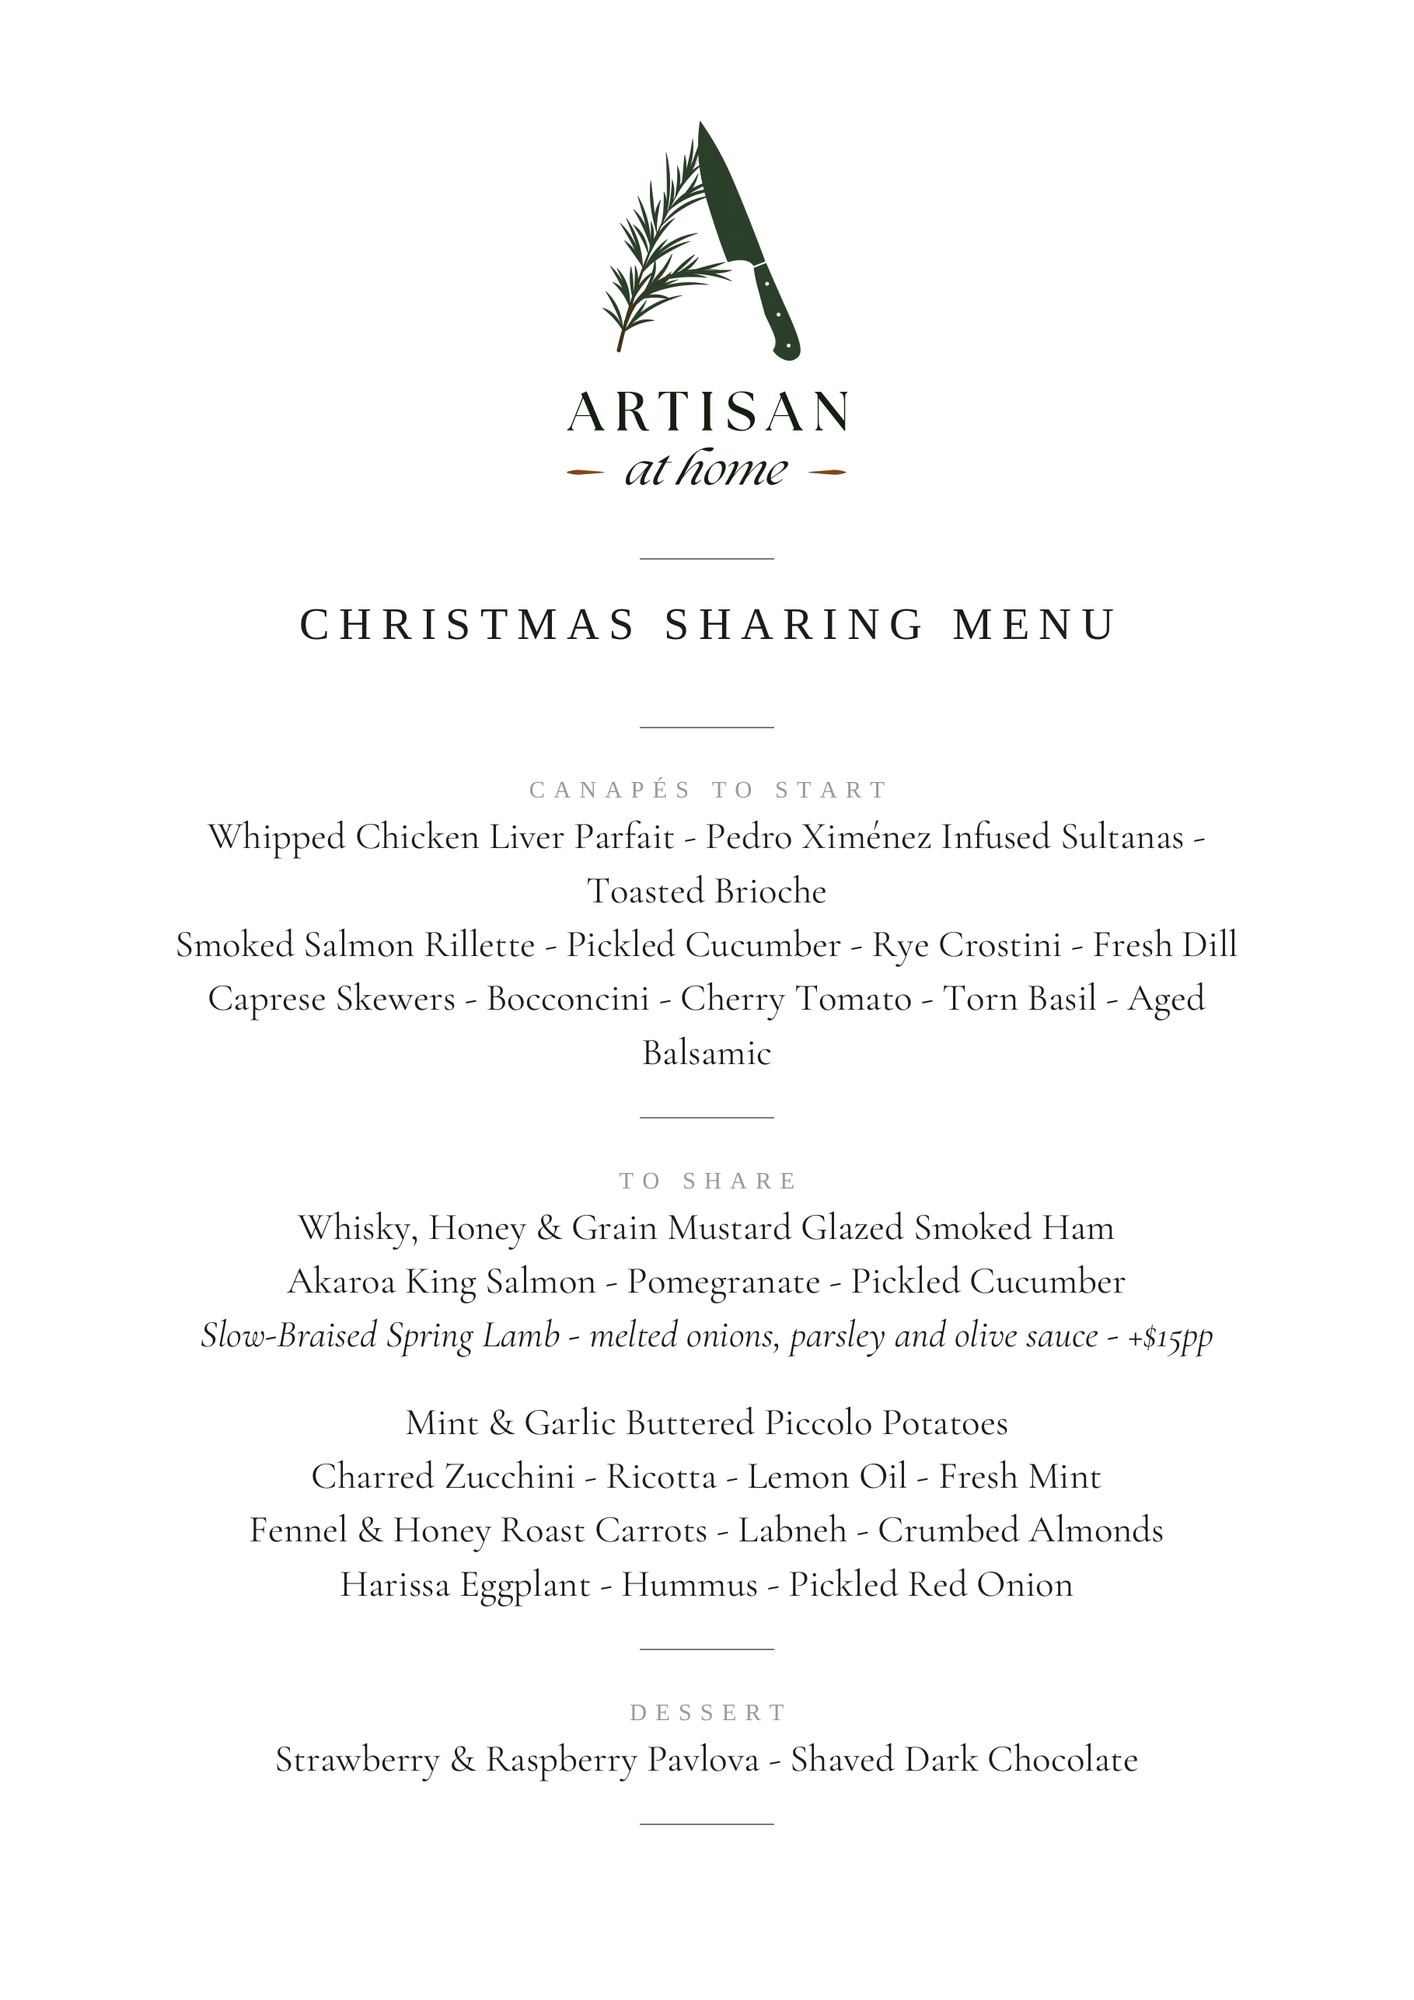
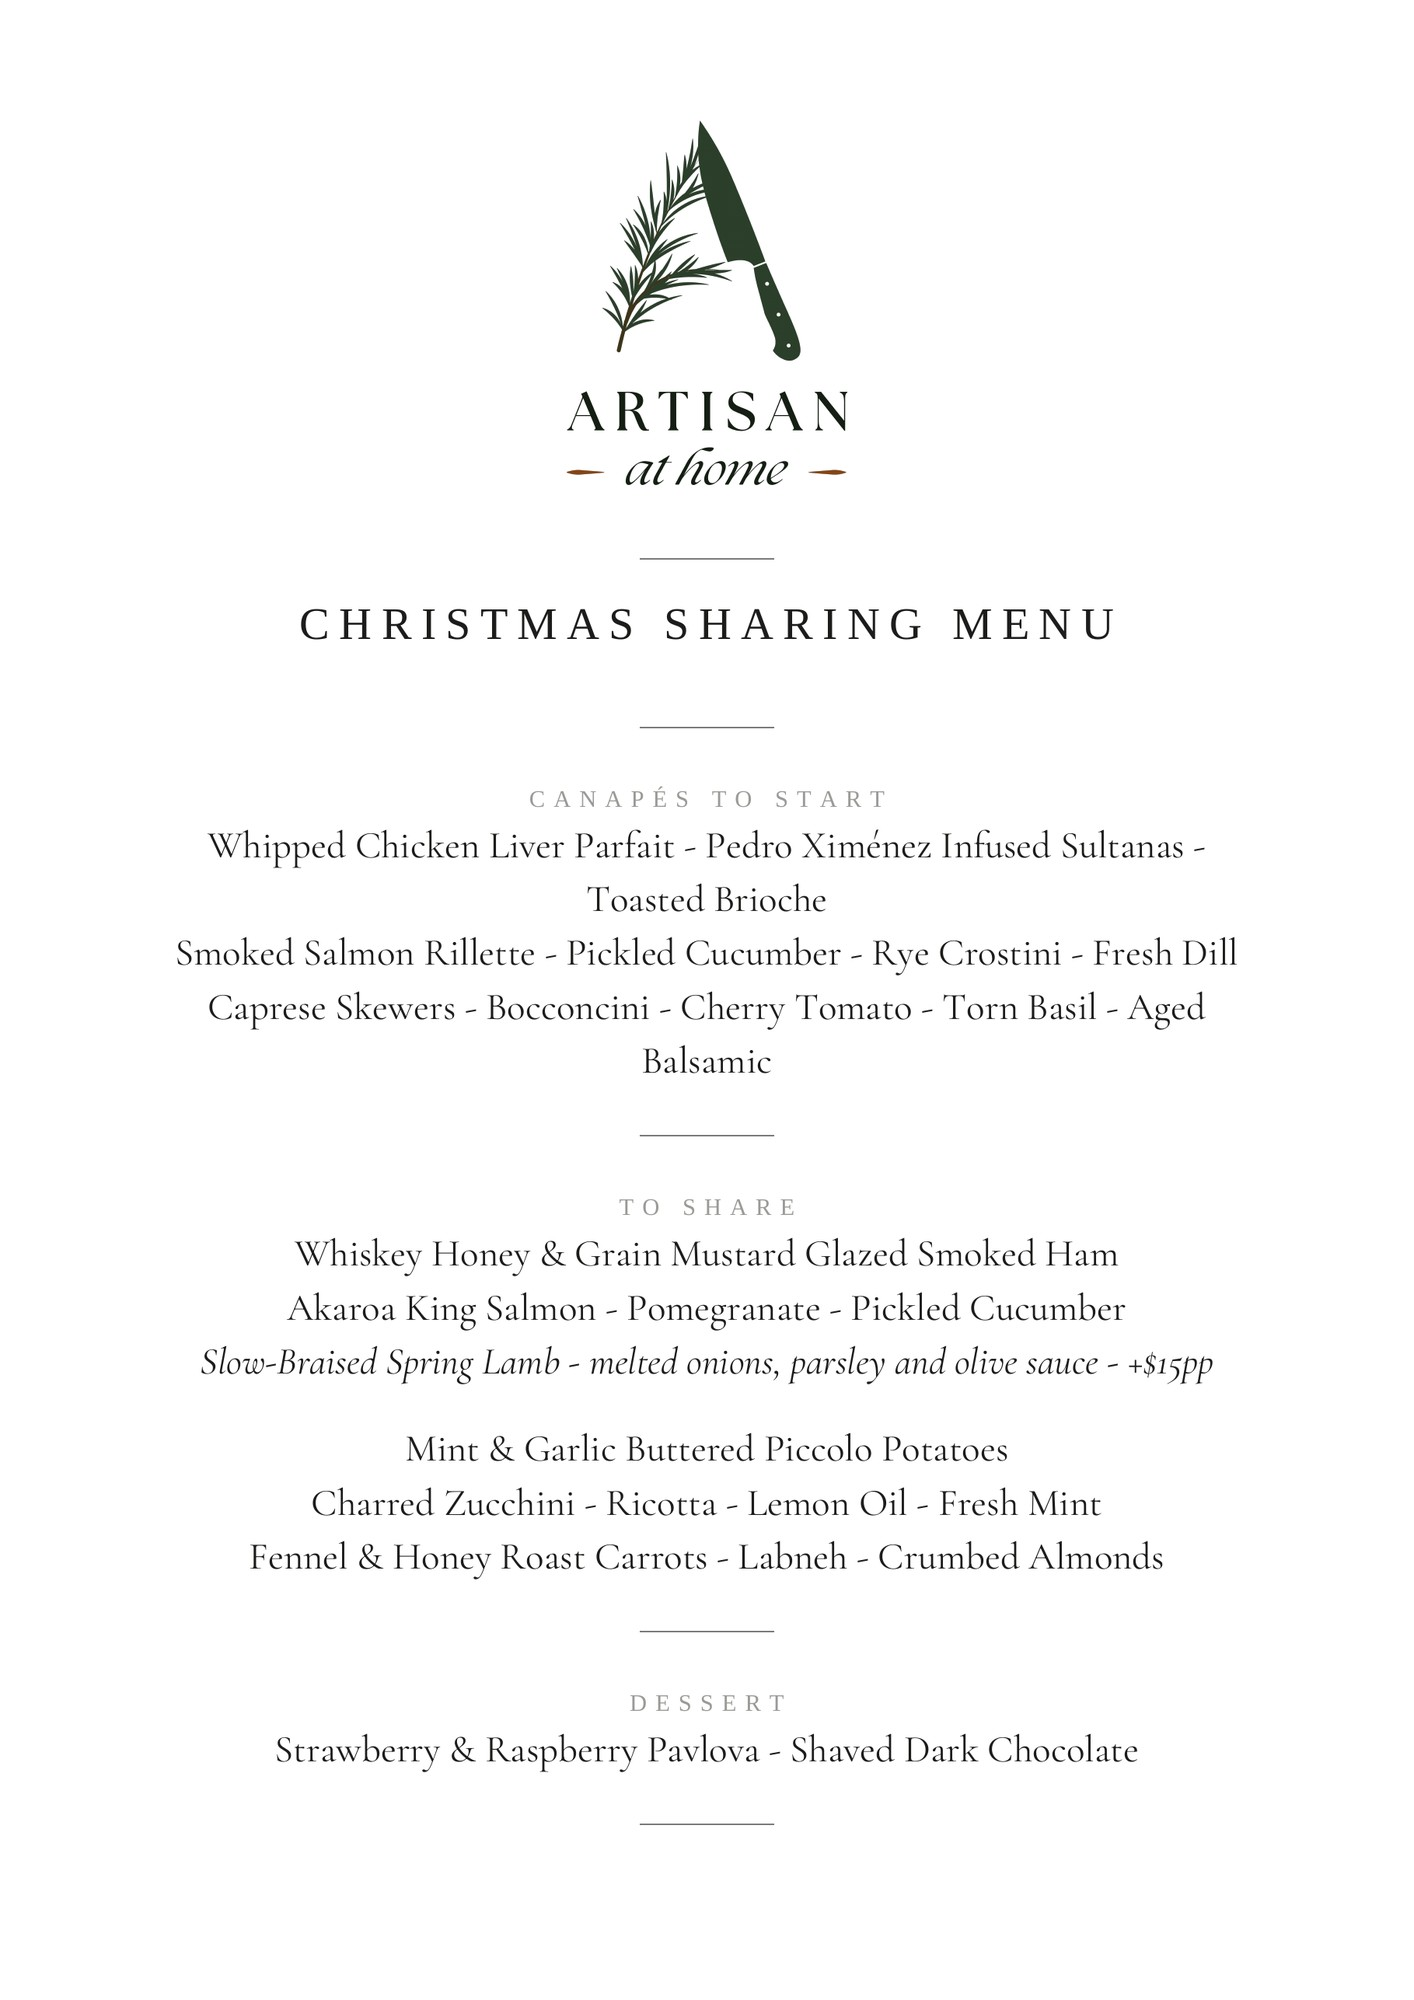
Update website 2026-11-25 19:08

diff --git a/christmas-catering/index.html b/christmas-catering/index.html
@@ -16,7 +16,7 @@
 <link rel="icon" type="image/png" href="/images/favicon.png">
 <link rel="preconnect" href="https://fonts.googleapis.com">
 <link rel="preconnect" href="https://fonts.gstatic.com" crossorigin>
-<link href="https://fonts.googleapis.com/css2?family=Lato:wght@300;400;700&family=Cormorant+Garamond:wght@500;600;700&family=Playfair+Display:wght@500;600;700&display=swap" rel="stylesheet">
+<link href="https://fonts.googleapis.com/css2?family=Lato:wght@300;400;700&family=Cormorant+Garamond:wght@500;600;700&family=Playfair+Display:wght@500;600;700&family=Caveat:wght@500;600&display=swap" rel="stylesheet">
 <link rel="stylesheet" href="/css/styles.css">
 <script type="application/ld+json">
 {"@context":"https://schema.org","@type":"Service","name":"Christmas Catering","serviceType":"Christmas and festive catering, private chef","url":"https://artisanathome.nz/christmas-catering/","areaServed":["Auckland","Northland"],"provider":{"@type":"LocalBusiness","@id":"https://artisanathome.nz/#business","name":"Artisan at Home","telephone":"+64275723373","email":"hello@artisanathome.nz"}}
@@ -34,7 +34,8 @@
 .pc-intro-photo img { position: absolute; inset: 0; width: 100%; height: 100%; object-fit: cover; display: block; }
 @media (max-width: 820px) { .pc-intro-grid { grid-template-columns: 1fr; } .pc-intro-photo { order: -1; min-height: 280px; aspect-ratio: 4 / 3; } }
 .xmas-menu-col { text-align: center; }
-.xmas-menu-col .xmas-menu-img { width: auto; max-width: 100%; max-height: 680px; margin: 0 auto; }
+.xmas-menu-col .xmas-menu-img { width: auto; max-width: 100%; max-height: 680px; margin: 0 auto; border: 1px solid rgba(47,74,47,0.12); }
+.xmas-script { display: block; font-family: 'Caveat', cursive; font-weight: 600; font-size: clamp(1.5rem, 3vw, 2rem); color: #a81f33; line-height: 1; letter-spacing: 0.01em; margin-bottom: 0.2rem; }
 .wed-text-note { text-align: center; margin: 1.6rem auto 0; max-width: 44rem; color: rgba(34,40,31,0.72); }
 .wed-text-note a { color: var(--honey); font-weight: 700; }
 /* cream background + festive pine garland down both sides */
@@ -91,7 +92,8 @@ main#content { position: relative; z-index: 1; padding-left: var(--cpad); paddin
 <section class="pc-intro" id="festive-menu">
   <div class="wrap pc-intro-grid">
     <div class="pc-intro-copy">
-      <h1 class="pc-tagline" style="font-size: clamp(2rem, 4.4vw, 3rem);">Christmas Catering in Auckland</h1>
+      <span class="xmas-script">&rsaquo; 'Tis the season to gather &lsaquo;</span>
+      <h1 class="pc-tagline" style="font-size: clamp(2rem, 4.4vw, 3rem); margin-top: 0.3rem;">Christmas Catering in Auckland</h1>
       <p class="lead">From intimate Christmas dinners to festive long lunches and end-of-year parties, we have our seasonal Christmas menu with the firm favourites and some with a special Artisan at Home twist. We do all the preparation, cooking and clean-up so you can pour the wine, gather your people, and soak up the evening while we take care of the rest!</p>
       <p class="lead">We have a few dates throughout December still available, so your Christmas gatherings can be less stress and more festive fun! We also have a festive menu available as a delivered catering option — just mention this upon enquiry.</p>
       <div class="btn-row">
@@ -99,8 +101,8 @@ main#content { position: relative; z-index: 1; padding-left: var(--cpad); paddin
       </div>
     </div>
     <div class="xmas-menu-col">
-      <img class="xmas-menu-img" src="/images/menus/christmas-sharing-menu.jpg" alt="Artisan at Home Christmas Sharing Menu — canapés to start; a shared table of whisky-glazed ham, Akaroa king salmon, seasonal sides and salads; strawberry and raspberry pavlova to finish" loading="lazy">
-      <p class="xmas-menu-note"><a href="/images/menus/christmas-sharing-menu.pdf" target="_blank" rel="noopener">Download the menu (PDF)</a> &middot; Our menu is seasonal, so the odd dish may change for the best produce. Dietary needs happily catered for &mdash; just let us know.</p>
+      <img class="xmas-menu-img" src="/images/menus/christmas-sharing-menu.jpg" alt="Artisan at Home Christmas Sharing Menu — canapés to start; a shared table of whiskey-glazed ham, Akaroa king salmon, seasonal sides and salads; strawberry and raspberry pavlova to finish" loading="lazy">
+      <p class="xmas-menu-note">Our menu is seasonal, so the odd dish may change for the best produce. Dietary needs happily catered for &mdash; just let us know.</p>
     </div>
   </div>
 </section>

diff --git a/css/styles.css b/css/styles.css
@@ -656,10 +656,11 @@ h1 em, h2 em, h3 em { font-style: normal; font-weight: 600; color: var(--pine); 
 .aah-notice-sign { font-family: 'Caveat', cursive; font-weight: 600; font-size: 1.7rem; color: var(--pine); margin: 0; }
 
 /* ---- Seasonal Christmas announcement bar (homepage) ---- */
-.xmas-bar { display: block; position: relative; z-index: 40; background: #c81919; color: #fff; font-family: var(--sans); font-weight: 400; text-align: center; text-decoration: none; letter-spacing: 0.02em; line-height: 1.55; font-size: clamp(0.9rem, 2.2vw, 1.05rem); padding: 0.9rem clamp(1.1rem, 4vw, 3rem); transition: background 0.2s ease; }
-.xmas-bar:hover { background: #a81414; }
+.xmas-bar { display: block; position: relative; z-index: 40; background: #a81f33; color: #fff; font-family: var(--sans); font-weight: 400; text-align: center; text-decoration: none; letter-spacing: 0.02em; line-height: 1.55; font-size: clamp(0.9rem, 2.2vw, 1.05rem); padding: 0.9rem clamp(1.1rem, 4vw, 3rem); transition: background 0.2s ease; }
+.xmas-bar:hover { background: #8c1829; }
 .xmas-bar .xmas-link { color: #fff; text-decoration: underline; text-underline-offset: 3px; white-space: nowrap; }
-@media (max-width: 820px) { .xmas-bar { padding: 0.9rem 3.4rem 0.9rem 1.2rem; font-size: 0.92rem; } .xmas-bar .xmas-link { white-space: normal; } }
+.xmas-bar .xb-mini { display: none; }
+@media (max-width: 820px) { .xmas-bar { padding: 0.9rem 3.4rem 0.9rem 1.2rem; font-size: 0.92rem; } .xmas-bar .xmas-link { white-space: normal; } .xmas-bar .xb-full { display: none; } .xmas-bar .xb-mini { display: inline; } }
 
 /* ---- Christmas page: branded menu image ---- */
 .xmas-menu-wrap { max-width: 660px; margin: 0 auto; text-align: center; }

diff --git a/menus/index.html b/menus/index.html
@@ -96,7 +96,7 @@ body { background: #fff; }
     </ul>
   </nav>
 </div>
-<a class="xmas-bar" href="/christmas-catering/#festive-menu">A few weekend dates remaining for Christmas bookings &mdash; if you're planning a festive dinner, long lunch or party, <span class="xmas-link">take a look at our Christmas menu &rsaquo;</span></a>
+<a class="xmas-bar" href="/christmas-catering/#festive-menu"><span class="xb-full">🎅 A few weekend dates remaining for Christmas bookings &mdash; if you're planning a festive dinner, long lunch or party, <span class="xmas-link">take a look at our Christmas menu &rsaquo;</span> 🎅</span><span class="xb-mini">🎅 Christmas Menu &mdash; a few dates still available 🎅</span></a>
 <main id="content">
 
 <section class="page-hero page-hero--slim" style="background-image: url('/images/menu-page/menus.png'); background-position: center;">

diff --git a/services/event-catering/index.html b/services/event-catering/index.html
@@ -96,7 +96,7 @@
     </ul>
   </nav>
 </div>
-<a class="xmas-bar" href="/christmas-catering/#festive-menu">A few weekend dates remaining for Christmas bookings &mdash; if you're planning a festive dinner, long lunch or party, <span class="xmas-link">take a look at our Christmas menu &rsaquo;</span></a>
+<a class="xmas-bar" href="/christmas-catering/#festive-menu"><span class="xb-full">🎅 A few weekend dates remaining for Christmas bookings &mdash; if you're planning a festive dinner, long lunch or party, <span class="xmas-link">take a look at our Christmas menu &rsaquo;</span> 🎅</span><span class="xb-mini">🎅 Christmas Menu &mdash; a few dates still available 🎅</span></a>
 <main id="content">
 
 <section class="page-hero page-hero--slim" style="background-image: url('/images/event-catering/bowl-food.jpeg'); background-position: center bottom;">

diff --git a/services/private-chef/index.html b/services/private-chef/index.html
@@ -171,7 +171,7 @@ body { background: #fff; }
     </ul>
   </nav>
 </div>
-<a class="xmas-bar" href="/christmas-catering/#festive-menu">A few weekend dates remaining for Christmas bookings &mdash; if you're planning a festive dinner, long lunch or party, <span class="xmas-link">take a look at our Christmas menu &rsaquo;</span></a>
+<a class="xmas-bar" href="/christmas-catering/#festive-menu"><span class="xb-full">🎅 A few weekend dates remaining for Christmas bookings &mdash; if you're planning a festive dinner, long lunch or party, <span class="xmas-link">take a look at our Christmas menu &rsaquo;</span> 🎅</span><span class="xb-mini">🎅 Christmas Menu &mdash; a few dates still available 🎅</span></a>
 <main id="content">
 
 <section class="page-hero page-hero--slim" style="background-image: url('/images/private-chef/Fine-dining-dish-2.png');">

diff --git a/services/corporate-catering/index.html b/services/corporate-catering/index.html
@@ -193,7 +193,7 @@
     </ul>
   </nav>
 </div>
-<a class="xmas-bar" href="/christmas-catering/#festive-menu">A few weekend dates remaining for Christmas bookings &mdash; if you're planning a festive dinner, long lunch or party, <span class="xmas-link">take a look at our Christmas menu &rsaquo;</span></a>
+<a class="xmas-bar" href="/christmas-catering/#festive-menu"><span class="xb-full">🎅 A few weekend dates remaining for Christmas bookings &mdash; if you're planning a festive dinner, long lunch or party, <span class="xmas-link">take a look at our Christmas menu &rsaquo;</span> 🎅</span><span class="xb-mini">🎅 Christmas Menu &mdash; a few dates still available 🎅</span></a>
 <main id="content">
 
 <section class="page-hero page-hero--slim" style="background-image: url('/images/converted/Catering%20spread.jpg'); background-position: center;">

diff --git a/services/wedding-catering/index.html b/services/wedding-catering/index.html
@@ -94,7 +94,7 @@
     </ul>
   </nav>
 </div>
-<a class="xmas-bar" href="/christmas-catering/#festive-menu">A few weekend dates remaining for Christmas bookings &mdash; if you're planning a festive dinner, long lunch or party, <span class="xmas-link">take a look at our Christmas menu &rsaquo;</span></a>
+<a class="xmas-bar" href="/christmas-catering/#festive-menu"><span class="xb-full">🎅 A few weekend dates remaining for Christmas bookings &mdash; if you're planning a festive dinner, long lunch or party, <span class="xmas-link">take a look at our Christmas menu &rsaquo;</span> 🎅</span><span class="xb-mini">🎅 Christmas Menu &mdash; a few dates still available 🎅</span></a>
 <main id="content">
 
 <section class="page-hero page-hero--slim" style="background-image: url('/images/wedding-images/first-look.jpg'); background-position: center 92%;">

diff --git a/index.html b/index.html
@@ -95,7 +95,7 @@ try {
 </div>
 <main id="content">
 
-<a class="xmas-bar" href="/christmas-catering/#festive-menu">A few weekend dates remaining for Christmas bookings &mdash; if you're planning a festive dinner, long lunch or party, <span class="xmas-link">take a look at our Christmas menu &rsaquo;</span></a>
+<a class="xmas-bar" href="/christmas-catering/#festive-menu"><span class="xb-full">🎅 A few weekend dates remaining for Christmas bookings &mdash; if you're planning a festive dinner, long lunch or party, <span class="xmas-link">take a look at our Christmas menu &rsaquo;</span> 🎅</span><span class="xb-mini">🎅 Christmas Menu &mdash; a few dates still available 🎅</span></a>
 
 <section class="hero-reveal" id="hero-reveal">
   <h1 class="visually-hidden">Artisan at Home — private chef &amp; catering, Auckland &amp; Northland</h1>

diff --git a/our-story/index.html b/our-story/index.html
@@ -57,7 +57,7 @@
     </ul>
   </nav>
 </div>
-<a class="xmas-bar" href="/christmas-catering/#festive-menu">A few weekend dates remaining for Christmas bookings &mdash; if you're planning a festive dinner, long lunch or party, <span class="xmas-link">take a look at our Christmas menu &rsaquo;</span></a>
+<a class="xmas-bar" href="/christmas-catering/#festive-menu"><span class="xb-full">🎅 A few weekend dates remaining for Christmas bookings &mdash; if you're planning a festive dinner, long lunch or party, <span class="xmas-link">take a look at our Christmas menu &rsaquo;</span> 🎅</span><span class="xb-mini">🎅 Christmas Menu &mdash; a few dates still available 🎅</span></a>
 <main id="content">
 
 <section class="page-hero page-hero--slim" style="background-image: url('/images/our-story/sunset.png'); background-position: center 30%;">

diff --git a/services/corporate-catering/order/index.html b/services/corporate-catering/order/index.html
@@ -197,7 +197,7 @@ body { background: #fff; }
     </ul>
   </nav>
 </div>
-<a class="xmas-bar" href="/christmas-catering/#festive-menu">A few weekend dates remaining for Christmas bookings &mdash; if you're planning a festive dinner, long lunch or party, <span class="xmas-link">take a look at our Christmas menu &rsaquo;</span></a>
+<a class="xmas-bar" href="/christmas-catering/#festive-menu"><span class="xb-full">🎅 A few weekend dates remaining for Christmas bookings &mdash; if you're planning a festive dinner, long lunch or party, <span class="xmas-link">take a look at our Christmas menu &rsaquo;</span> 🎅</span><span class="xb-mini">🎅 Christmas Menu &mdash; a few dates still available 🎅</span></a>
 <main id="content">
 
 <section class="section section--cream" id="catering-menu">

diff --git a/order-received/index.html b/order-received/index.html
@@ -57,7 +57,7 @@
     </ul>
   </nav>
 </div>
-<a class="xmas-bar" href="/christmas-catering/#festive-menu">A few weekend dates remaining for Christmas bookings &mdash; if you're planning a festive dinner, long lunch or party, <span class="xmas-link">take a look at our Christmas menu &rsaquo;</span></a>
+<a class="xmas-bar" href="/christmas-catering/#festive-menu"><span class="xb-full">🎅 A few weekend dates remaining for Christmas bookings &mdash; if you're planning a festive dinner, long lunch or party, <span class="xmas-link">take a look at our Christmas menu &rsaquo;</span> 🎅</span><span class="xb-mini">🎅 Christmas Menu &mdash; a few dates still available 🎅</span></a>
 <main id="content">
 
 <section class="section" style="min-height: 62vh; display: flex; align-items: center;">

diff --git a/contact-us/index.html b/contact-us/index.html
@@ -67,7 +67,7 @@
     </ul>
   </nav>
 </div>
-<a class="xmas-bar" href="/christmas-catering/#festive-menu">A few weekend dates remaining for Christmas bookings &mdash; if you're planning a festive dinner, long lunch or party, <span class="xmas-link">take a look at our Christmas menu &rsaquo;</span></a>
+<a class="xmas-bar" href="/christmas-catering/#festive-menu"><span class="xb-full">🎅 A few weekend dates remaining for Christmas bookings &mdash; if you're planning a festive dinner, long lunch or party, <span class="xmas-link">take a look at our Christmas menu &rsaquo;</span> 🎅</span><span class="xb-mini">🎅 Christmas Menu &mdash; a few dates still available 🎅</span></a>
 <main id="content">
 
 <section class="section">
